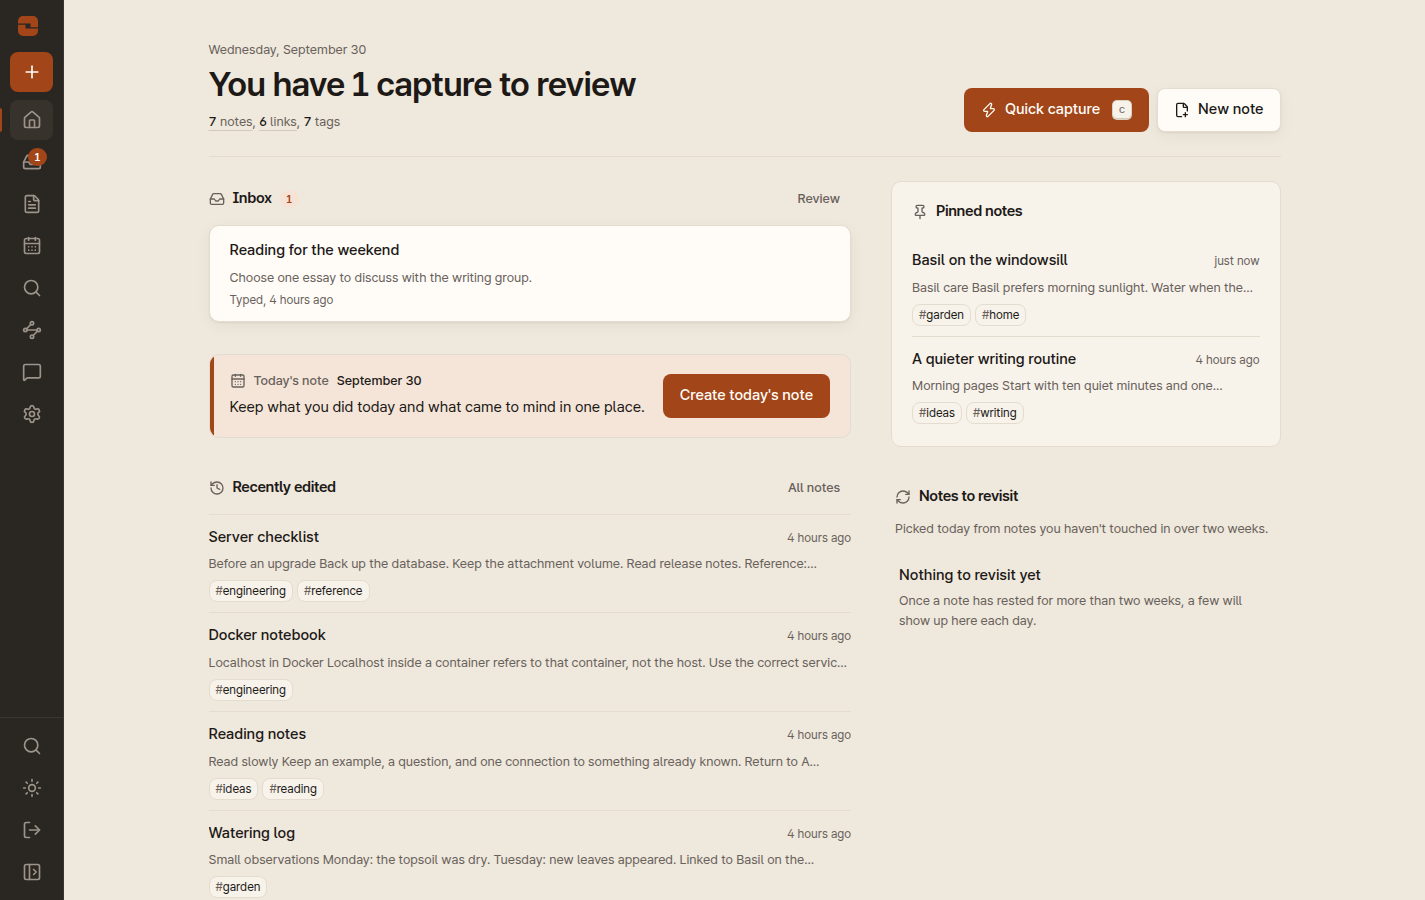
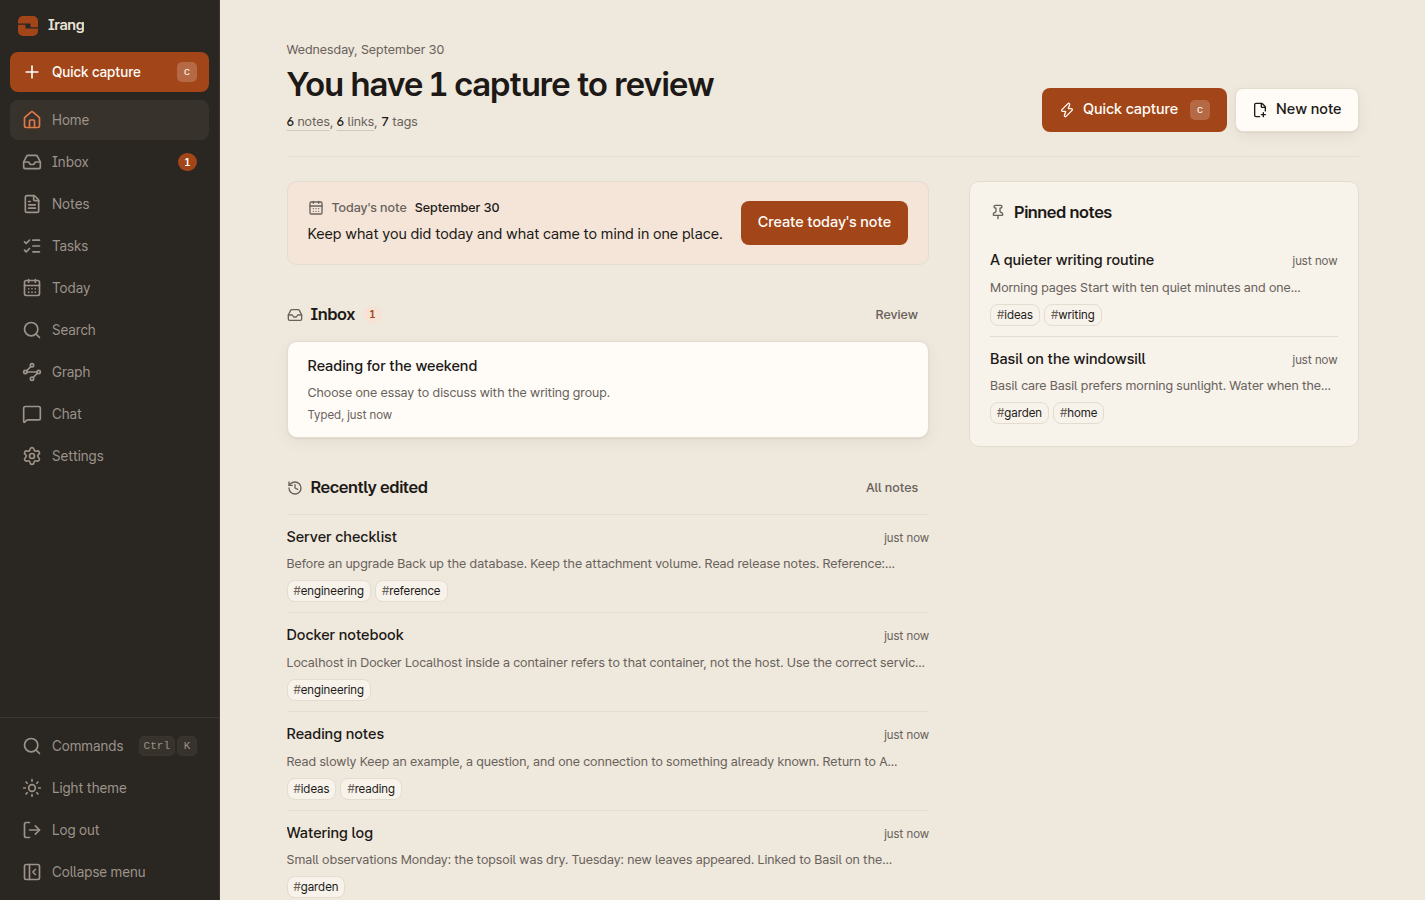
docs: describe the new features, design rules and a Korean README hero
- README feature lists cover history, trash, tasks, templates, daily
  calendar, triage and export; export is no longer listed as missing.
- DESIGN.md records the focus, rail, segmented-control and undo rules.
- The Korean README gets its own hero with Korean sample data.

diff --git a/DESIGN.md b/DESIGN.md
@@ -21,14 +21,43 @@ Use `bg-canvas`, `bg-desk`, `bg-card`, `text-ink`, `text-mute`, `border-line` an
 the semantic `ok`, `warn`, `danger` tokens. Card elevation is subtle; floating
 dialogs use `shadow-pop`. Selection uses a tonal wash and an understandable
 label or glyph. Accent is reserved for actionable emphasis and focus.
+Never mark a selected, active or focused item with an accent edge (a stripe,
+a one-sided border or an accent outline); the rail's active item is the
+`rail-hover` wash with a `rail-accent` icon (`--rail-accent`, the dark-theme
+accent, 5.81:1 on `rail-hover`; the rail is dark in both themes).
+
+Segmented controls (view filters, edit/preview, graph scope) are a `role="group"`
+of `aria-pressed` buttons: track `rounded-ctl bg-canvas p-1 ring-1 ring-inset
+ring-line`, active segment `bg-card font-medium text-ink shadow-card ring-1
+ring-line-strong`, inactive `text-mute hover:text-ink`. The ring keeps the active
+segment visible in dark mode, where card and track are close.
+
+Focus uses the `--focus` token (solid accent, 6.03:1 on card, 5.07:1 on canvas).
+`:focus-visible` draws a 2px `--focus` outline offset by 2px, and the
+`focus-ring` utility draws a 2px `--focus` box-shadow. Accent-filled controls
+(primary buttons, capture) use `focus-ring-offset` instead, a 2px outline with a
+2px gap, because a flush ring in the fill color reads as the control growing.
+The desktop rail sets
+`--focus` to `--rail-ink` (11.66:1 on the rail); `.dark` inherits the token
+because `--accent` switches there. Focus colors must keep 3:1 against their
+surface.
+
+Categorical data such as graph tags uses `--graph-1` to `--graph-6`
+(`bg-graph-N`, light and dark values), never the `ok`/`warn`/`danger` state
+colors. Each graph color keeps 3:1 against card.
 
 ## 3. Typography
 
-Self-hosted Pretendard Variable is the UI and reading face. Monospace is for
-code, not decorative labels. Existing tokens define 12px metadata, 13px small
-copy, 14px controls, 15px reading text, 17px subheads, 20px section heads and
-26px page heads. Korean text wraps at word boundaries; long URLs may break
-anywhere rather than widen the viewport.
+Self-hosted Pretendard Variable is the UI and reading face; the fallback stack
+adds the platform UI faces, Korean system faces and the emoji families.
+Monospace is for code, not decorative labels. Existing tokens define 12px
+metadata, 13px small copy, 14px controls, 15px body text, 16px reading text,
+17px subheads, 20px section heads and 26px page heads. Long-form reading
+(Markdown preview, editor, assistant answers) uses `text-read`, 16px on a
+28px line, from `--text-read-size` and `--text-read-leading`; `prose-ko` uses
+the same pair. Korean labels are never uppercase or letter-spaced, and no
+visible label is smaller than 12px. Korean text wraps at word boundaries;
+long URLs may break anywhere rather than widen the viewport.
 
 ## 4. Space and scroll ownership
 
@@ -36,6 +65,18 @@ Use the existing Tailwind spacing scale and `rounded-ctl` (8px),
 `rounded-card` (10px), `rounded-pill` tokens. Desktop rail widths are 64/220px;
 mobile top bar and bottom navigation have 52/60px content heights. Safe-area
 insets are reserved separately; `--workspace-h` is the remaining pane height.
+
+Without a stored choice the rail starts expanded at 1280px and wider, and
+collapsed below; a stored `open`/`closed` choice always wins. The mobile bottom
+bar is Home, Inbox, [capture], Notes, More; Inbox carries its count badge,
+search stays in the top bar, and the More sheet lists the remaining
+destinations in rail order. A new destination is one entry in
+`src/components/shell/nav.ts` plus its label in both locales.
+
+Page headers share one recipe: container `mx-auto w-full max-w-6xl px-4 pb-12
+pt-5 sm:px-6 lg:px-10 lg:pt-10` (Graph keeps `max-w-7xl`, Settings
+`max-w-4xl`), h1 `text-2xl font-semibold tracking-tight lg:text-3xl`, lead
+`mt-1 text-sm text-mute`, and no eyebrow above the h1.
 
 Home, search and settings use document scrolling. Editor, graph and chat may
 own bounded panes with `min-height: 0`, explicit overflow and dynamic viewport
@@ -59,7 +100,9 @@ mark with the localized product name: 이랑 / Irang. Installed-app names stay
 
 Controls need resting, focus, busy, disabled and failure states. Dialogs use
 native modal focus trapping and restore focus to the opener. Destructive actions
-need explicit confirmation. Saving, capture and chat failures preserve input.
+need explicit confirmation unless they are reversible from an Undo toast (inbox
+discard, snooze and moving a note to the trash act at once and offer Undo);
+permanent deletion always confirms. Saving, capture and chat failures preserve input.
 Note save failures show their reason visibly beside the retry action.
 Icon-only buttons use their square size and zero horizontal padding, without
 the text-button padding that would shrink their glyphs.
@@ -85,6 +128,12 @@ Label controls, expose errors as alerts, retain visible keyboard focus, and
 provide a keyboard-accessible graph list. Aim for 44px mobile controls. Test
 Korean headings, long titles/URLs, empty data, busy/error states and dark mode.
 Capture actual desktop and mobile pages; include a tablet reflow check.
+
+Accepted debt: tablet (768px) keeps the mobile shell, because a desktop rail
+there needs a shell-wide `lg` to `md` breakpoint change. A first visit without
+a stored rail choice animates the rail from 64 to 220px once on load at 1280px
+and wider (the server snapshot is collapsed), as it already does for owners who
+chose `open`.
 
 ## 8. Evidence and boundaries
 
@@ -128,5 +177,11 @@ prose, so they can switch language too.
 
 Existing notes, titles, tags and messages are user data and stay unchanged.
 New generated defaults and model instructions use the request locale explicitly.
-Dates use the viewer's time zone. Verify English long labels and Korean text
+Dates use the viewer's time zone. Every displayed date or time goes through
+`src/lib/i18n/format-date.ts`: `formatDate` (ko `2026-09-29`, en `Sep 29,
+2026`), `formatDateTime` (ko `2026-09-29 오후 7:18`, en `Sep 29, 2026, 7:18 PM`),
+`formatDayHeading` for a local day key (`9월 29일 화요일` / `Tuesday,
+September 29`), `localDateKey` and `calendarDaysAgo`. Times never show
+seconds; recent items may use relative labels, and older ones use these
+absolute formats. Verify English long labels and Korean text
 at desktop, tablet and mobile widths; `한국어` as a language endonym is intentional.

diff --git a/README.ko.md b/README.ko.md
@@ -9,7 +9,7 @@
   <a href="README.md">English</a> · <a href="docs/SETUP.md">설치 안내</a> · <a href="LICENSE">MIT</a>
 </p>
 
-![인박스와 고정 노트, 최근 노트를 보여주는 이랑 홈](docs/images/irang-workbench.png)
+![오늘 노트, 인박스, 최근 수정한 노트와 고정한 노트를 보여주는 이랑 홈](docs/images/irang-workbench.ko.png)
 
 이랑은 직접 운영하는 서버에서 소유자 한 명이 쓰는 노트 도구입니다. 링크와 짧은
 생각을 인박스에 먼저 담고, Markdown 노트로 옮겨 적으면서 노트 사이의 연결을
@@ -18,22 +18,36 @@
 ## 주요 기능
 
 - **수집과 인박스**: URL이나 짧은 메모를 먼저 저장하고, 정리가 되면 노트로
-  옮깁니다.
+  옮깁니다. 키 하나로 분류하고, 나중에 다시 보도록 미뤄 두거나 이미 있는
+  노트에 합칠 수 있습니다.
 - **연결된 Markdown 노트**: `[[위키 링크]]`, 태그, 별칭을 쓰고 노트마다
-  백링크와 연결되지 않은 언급을 확인합니다.
+  백링크와 연결되지 않은 언급을 확인합니다. `[[`를 입력하면 제목과 별칭을
+  제안하고 없는 노트는 바로 만들며, 연결되지 않은 언급은 클릭 한 번으로
+  링크로 바꿉니다.
+- **일일 노트와 템플릿**: 오늘 노트나 작은 달력에서 고른 날의 노트를 엽니다.
+  템플릿(새 일일 노트용 기본 템플릿 포함)은 `{{date}}`와 `{{title}}`을 채워
+  줍니다.
+- **할 일**: 노트 곳곳의 `- [ ]` 체크박스를 할 일 페이지 한곳에서 모아 보고,
+  그곳이나 노트 미리보기에서 바로 체크합니다.
+- **버전 기록과 휴지통**: 노트의 최근 버전을 비교하고 되돌릴 수 있습니다.
+  삭제한 노트는 30일 동안 휴지통에 남고, 삭제한 직후에는 바로 되돌릴 수
+  있습니다.
 - **그래프**: 노트장 전체 또는 한 노트 주변의 연결을 살펴봅니다.
 - **검색**: PostgreSQL 전문 검색, 트라이그램, 문자 n-gram을 함께 써서 정확한
   단어는 물론 오타가 섞인 검색어로도 노트를 찾습니다. 뜻이 아니라 글자를
   비교합니다. 임베딩도 로컬에서 만든 해시 기반 문자 n-gram이라, 학습된 의미
   벡터나 외부 임베딩 API는 쓰지 않습니다.
 - **첨부파일**: 노트에 붙인 파일을 서버에 함께 보관합니다.
+- **Markdown 내보내기**: 설정에서 휴지통을 뺀 모든 노트(보관한 노트 포함)와
+  첨부파일을 zip 하나로 내려받습니다. 노트마다 YAML 프런트매터가 붙고
+  `[[위키 링크]]`는 그대로 남아서, Obsidian 같은 도구에서도 열 수 있습니다.
 - **채팅(선택)**: 노트 내용을 물으면 답변에 참고한 노트를 출처로 보여 줍니다.
   관련 노트를 찾지 못하면 출처 없이 답할 수도 있습니다.
 - **Jev(선택)**: 채팅과 따로 연결하며, 인박스 항목의 분류·태그·중복 후보를
   제안합니다. 제안은 항목에 저장되고, 노트로 옮길 때 붙일 태그는 직접 고릅니다.
 
 이랑은 한 사람이 쓰는 웹 앱이라 팀 협업 기능이 없습니다. 네이티브 앱, 오프라인
-편집과 동기화, 종단 간 암호화, 내장 가져오기·내보내기, 자동 백업도 없습니다.
+편집과 동기화, 종단 간 암호화, 내장 가져오기, 자동 백업도 없습니다.
 
 ## 빠른 시작
 

diff --git a/README.md b/README.md
@@ -11,7 +11,7 @@
 
 **Pronunciation:** /i.ɾaŋ/, said *EE-rahng*. It's not "eye-rang."
 
-![Irang home with inbox captures, pinned notes and recent notes](docs/images/irang-workbench.png)
+![Irang home with today's note, the inbox, recently edited notes and pinned notes](docs/images/irang-workbench.png)
 
 Irang runs on your own server and has a single owner. Drop links and quick
 thoughts into an inbox, turn them into Markdown notes, and let the connections
@@ -20,9 +20,20 @@ between notes build up over time. You won't need an AI account for any of this.
 ## What it does
 
 - **Capture and inbox.** Save a URL or a quick note first and sort it out later.
-  Inbox items become notes when you're ready.
+  Inbox items become notes when you're ready. Triage them with single keys,
+  snooze one until later or merge it into a note you already have.
 - **Linked Markdown notes.** Link notes with `[[wiki links]]`, add tags and
-  aliases, and see backlinks and unlinked mentions on every note.
+  aliases, and see backlinks and unlinked mentions on every note. Typing `[[`
+  suggests titles and aliases and can create a missing note, and an unlinked
+  mention becomes a link with one click.
+- **Daily notes and templates.** Open today's note, or any other day's from a
+  small calendar. Templates, including a default for new daily notes, fill in
+  `{{date}}` and `{{title}}`.
+- **Tasks.** Every `- [ ]` checkbox in your notes appears on one Tasks page.
+  Tick them off there or in a note's preview.
+- **Version history and trash.** Notes keep recent versions that you can
+  compare and restore. Deleted notes stay in the trash for 30 days, and you
+  can undo a delete right away.
 - **Graphs.** Browse how your notes connect, either across the whole notebook
   or around one note.
 - **Search.** PostgreSQL full-text, trigram and character n-gram matching find
@@ -31,6 +42,10 @@ between notes build up over time. You won't need an AI account for any of this.
   vectors, and no external embedding API is involved.
 - **Attachments.** Files are stored on your server next to the notes that use
   them.
+- **Markdown export.** Download every note outside the trash, archived ones
+  included, as one zip from Settings. Each note becomes a Markdown file with
+  YAML front matter, `[[wiki links]]` stay as written and attachments get their
+  own folder, so the files also open in tools like Obsidian.
 - **Optional cited chat.** Ask questions about your notes. Answers drawn from
   matching notes list those notes as sources. When nothing matches, an answer
   may come without note citations.
@@ -40,8 +55,8 @@ between notes build up over time. You won't need an AI account for any of this.
   note.
 
 Irang is a web app for one owner, so it has no team features. It also has no
-native apps, offline editing, sync, end-to-end encryption, built-in
-import/export or automatic backups.
+native apps, offline editing, sync, end-to-end encryption, built-in import or
+automatic backups.
 
 ## Quick start
 

diff --git a/docs/ARCHITECTURE.md b/docs/ARCHITECTURE.md
@@ -141,7 +141,7 @@ Tailwind names: `bg-canvas bg-desk bg-card text-ink text-mute border-line bg-acc
 
 Shell: desktop (≥ 1024px) = 64px charcoal icon rail (expands to 220px with labels) + content; mobile = top bar + bottom nav (홈 · 노트 · [캡처 FAB] · 검색 · 더보기). Nav: 홈 `/`, 인박스 `/inbox` (badge = open count), 노트 `/notes`, 오늘 `/daily`, 검색 `/search`, 그래프 `/graph`, 채팅 `/chat`, 설정 `/settings`.
 
-Keyboard: `Ctrl/⌘+K` command palette (notes by title + actions), `Ctrl/⌘+P` quick switcher (same palette in note mode), `c` or `Ctrl/⌘+Shift+Space`… capture dialog, `g h/i/n/s/g/c` go-to, `/` focus search. Shortcuts are ignored while typing in inputs/editors.
+Keyboard: `Ctrl/⌘+K` command palette (notes by title + actions), `Ctrl/⌘+P` quick switcher (same palette in note mode), `c` or `Ctrl/⌘+Shift+Space`… capture dialog, `g h/i/n/t/s/g/c` go-to, `/` focus search. Shortcuts are ignored while typing in inputs/editors.
 
 ## State and retrieval boundaries
 

diff --git a/docs/SETUP.md b/docs/SETUP.md
@@ -462,6 +462,7 @@ credentials).
 Both files are private (0600), and the app is stopped while the database and files
 are copied together. The app is restarted even if the backup command fails.
 The archive includes CLI credentials; protect it like a password.
+Settings > Export (Markdown zip of active and archived notes plus attachments) is not a backup: settings, sessions, chat and trash are not included.
 
 Restore into a **separate, empty installation**, not a running server with data
 you want to keep. Generate its `.env` first, set a different `APP_PORT`/Compose
